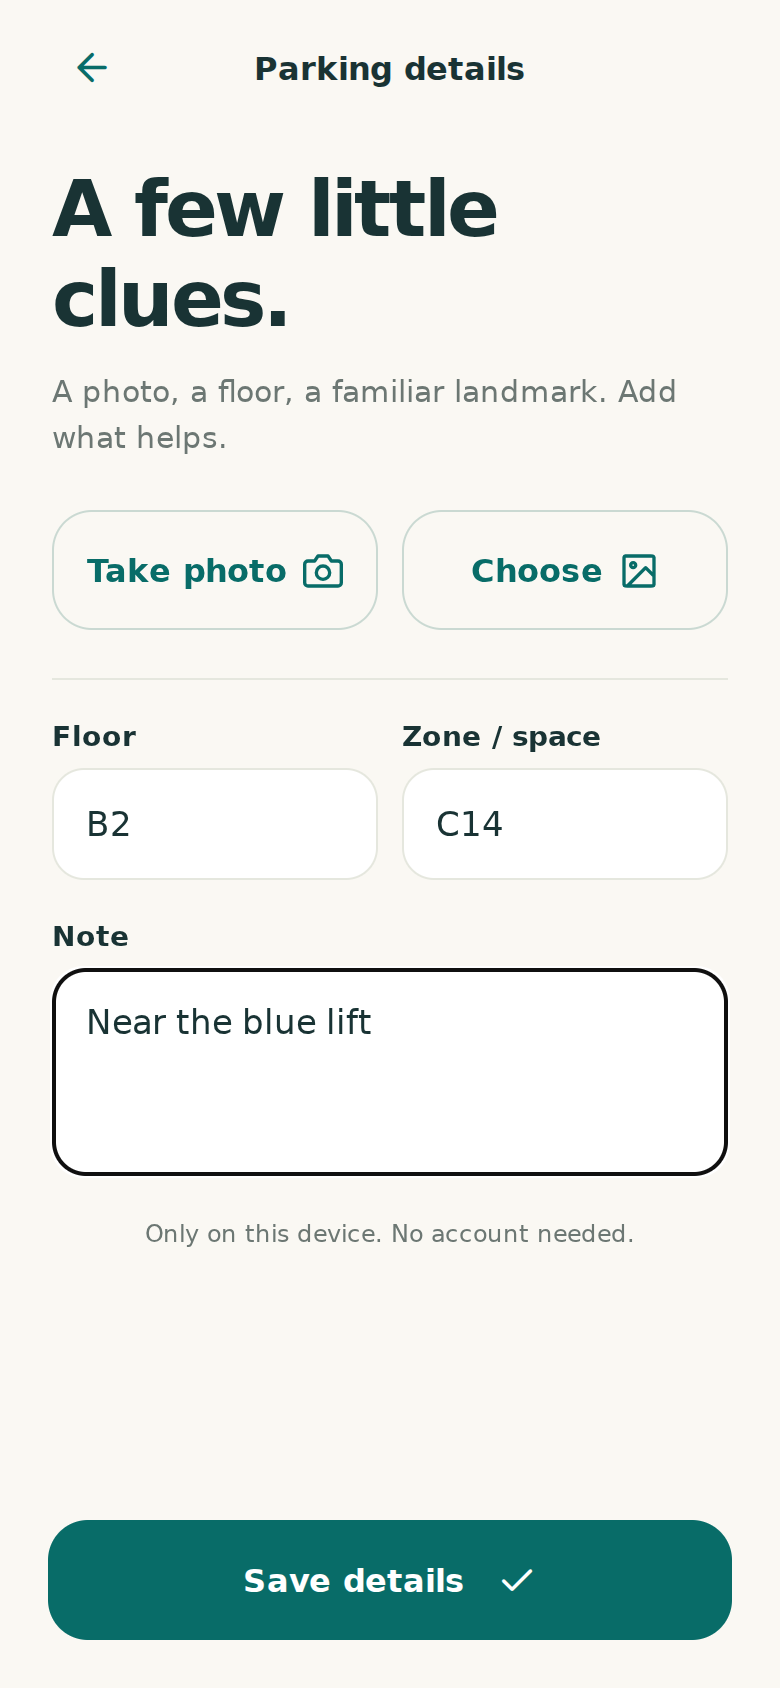
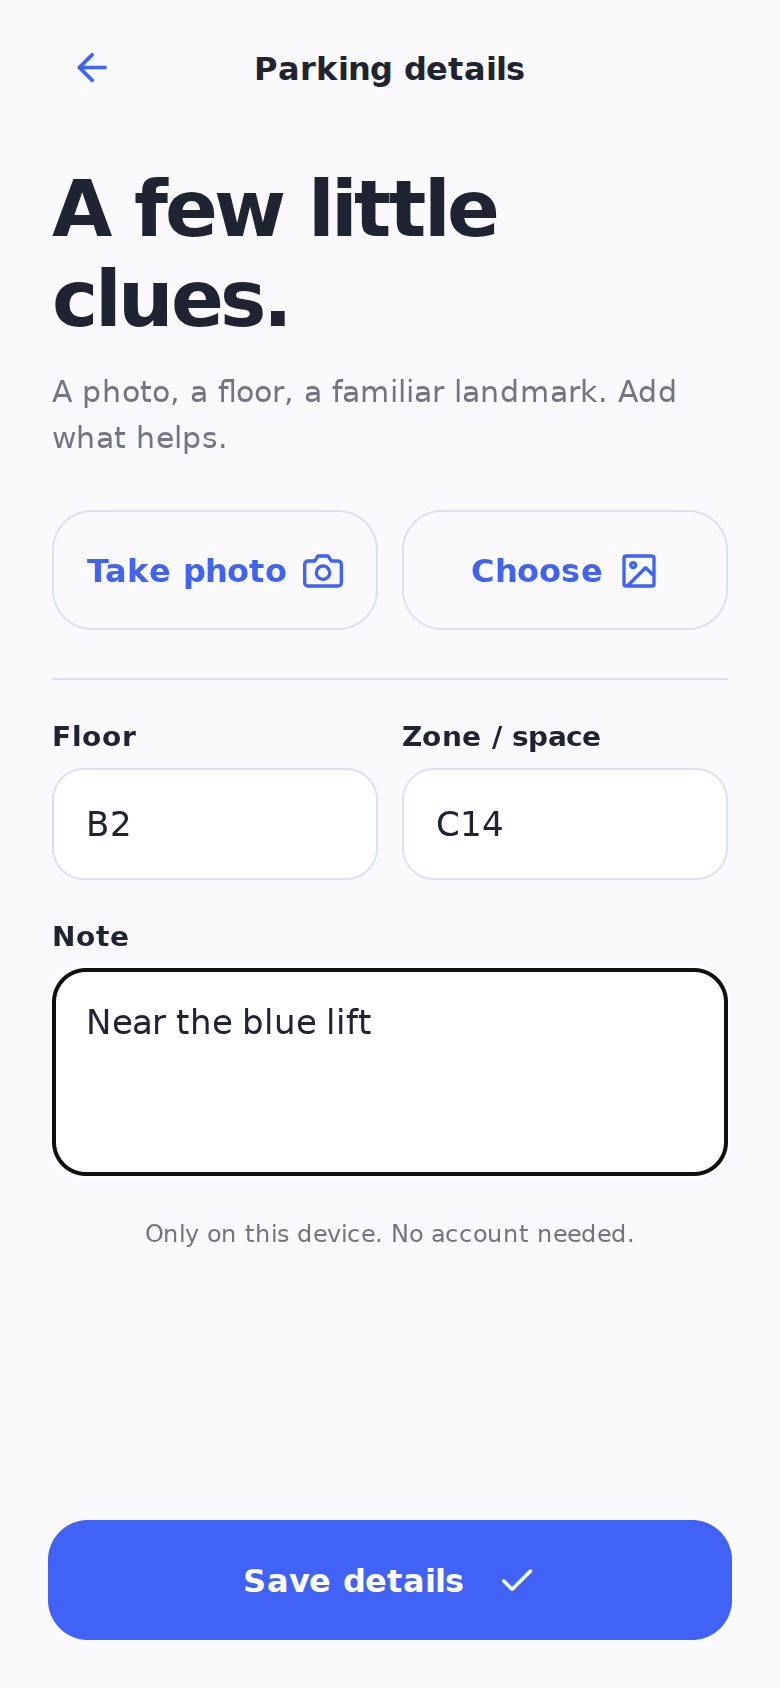
Apply cobalt blue theme and build standalone Android test APK

diff --git a/src/ui.tsx b/src/ui.tsx
@@ -4,9 +4,9 @@ import { ActivityIndicator, Image, KeyboardAvoidingView, Platform, Pressable, Sc
 import { SafeAreaView } from 'react-native-safe-area-context';
 import { router } from 'expo-router';
 
-export const colors = { background: '#FAF8F3', ink: '#193334', teal: '#086C68', muted: '#6C7773', line: '#E5E7DE', sage: '#E8EEE3', white: '#FFFFFF' };
+export const colors = { background: '#FAFAFC', ink: '#202331', primary: '#4162F6', muted: '#737582', line: '#DDE1EF', surface: '#EEF0FF', white: '#FFFFFF' };
 export type IconName = ComponentProps<typeof Feather>['name'];
-export function Icon({ name, size = 22, color = colors.teal }: { name: IconName; size?: number; color?: string }) {
+export function Icon({ name, size = 22, color = colors.primary }: { name: IconName; size?: number; color?: string }) {
   return <Feather name={name} size={size} color={color} />;
 }
 export function Screen({ children, title, back = false, footer }: { children: ReactNode; title?: string; back?: boolean; footer?: ReactNode }) {
@@ -14,7 +14,7 @@ export function Screen({ children, title, back = false, footer }: { children: Re
     <KeyboardAvoidingView style={s.shell} behavior={Platform.OS === 'ios' ? 'padding' : undefined}>
       <View style={s.header}>
         {back ? <Pressable accessibilityRole="button" accessibilityLabel="Go back" onPress={() => router.canGoBack() ? router.back() : router.replace('/')} style={s.iconButton}><Icon name="arrow-left" /></Pressable>
-          : <View style={s.brand}><View style={s.brandMark}><Icon name="map-pin" color={colors.white} size={19} /></View><Text style={s.wordmark}>parkd<Text style={{ color: colors.teal }}>.</Text></Text></View>}
+          : <View style={s.brand}><View style={s.brandMark}><Icon name="map-pin" color={colors.white} size={19} /></View><Text style={s.wordmark}>parkd<Text style={{ color: colors.primary }}>.</Text></Text></View>}
         {title ? <Text style={s.headerTitle}>{title}</Text> : <Pressable accessibilityRole="button" accessibilityLabel="About parkd" style={s.iconButton} onPress={() => router.push('/about')}><Icon name="more-horizontal" /></Pressable>}
         {back && <View style={{ width: 44 }} />}
       </View>
@@ -26,7 +26,7 @@ export function Screen({ children, title, back = false, footer }: { children: Re
 export function Button({ children, onPress, icon, secondary = false, busy = false, disabled = false }: { children: string; onPress: () => void; icon?: IconName; secondary?: boolean; busy?: boolean; disabled?: boolean }) {
   return <Pressable accessibilityRole="button" accessibilityLabel={children} accessibilityState={{ disabled: disabled || busy, busy }} disabled={disabled || busy} onPress={onPress}
     style={({ pressed }) => [s.button, secondary && s.secondary, (busy || disabled) && { opacity: .65 }, pressed && { opacity: .8 }]}>
-    {busy ? <ActivityIndicator color={secondary ? colors.teal : colors.white} /> : <><Text style={[s.buttonText, secondary && { color: colors.teal }]}>{children}</Text>{icon && <Icon name={icon} color={secondary ? colors.teal : colors.white} size={20} />}</>}
+    {busy ? <ActivityIndicator color={secondary ? colors.primary : colors.white} /> : <><Text style={[s.buttonText, secondary && { color: colors.primary }]}>{children}</Text>{icon && <Icon name={icon} color={secondary ? colors.primary : colors.white} size={20} />}</>}
   </Pressable>;
 }
 export function SmallLink({ children, onPress }: { children: string; onPress: () => void }) {
@@ -47,26 +47,26 @@ export function Photo({ uri, onPress }: { uri: string; onPress?: () => void }) {
 export const s = StyleSheet.create({
   safe: { flex: 1, minHeight: 0, backgroundColor: colors.background }, shell: { flex: 1, minHeight: 0, width: '100%', maxWidth: 520, alignSelf: 'center' },
   header: { paddingHorizontal: 24, paddingTop: 12, paddingBottom: 18, flexDirection: 'row', alignItems: 'center', justifyContent: 'space-between' },
-  brand: { flexDirection: 'row', alignItems: 'center', gap: 9 }, brandMark: { backgroundColor: colors.teal, width: 33, height: 33, borderRadius: 12, alignItems: 'center', justifyContent: 'center' },
+  brand: { flexDirection: 'row', alignItems: 'center', gap: 9 }, brandMark: { backgroundColor: colors.primary, width: 33, height: 33, borderRadius: 12, alignItems: 'center', justifyContent: 'center' },
   wordmark: { fontSize: 28, letterSpacing: -1.5, fontWeight: '800', color: colors.ink }, headerTitle: { color: colors.ink, fontSize: 16, fontWeight: '600' },
   iconButton: { minWidth: 44, minHeight: 44, alignItems: 'center', justifyContent: 'center', borderRadius: 22 },
   content: { paddingHorizontal: 26, paddingTop: 8, paddingBottom: 24, flexGrow: 1 }, footer: { padding: 24, paddingTop: 14, gap: 10, backgroundColor: colors.background },
-  eyebrow: { fontSize: 11, fontWeight: '700', letterSpacing: 2.1, color: colors.teal, marginBottom: 14 },
+  eyebrow: { fontSize: 11, fontWeight: '700', letterSpacing: 2.1, color: colors.primary, marginBottom: 14 },
   title: { fontSize: 39, lineHeight: 45, letterSpacing: -1.5, fontWeight: '700', color: colors.ink, marginBottom: 13 },
   body: { fontSize: 15, lineHeight: 23, color: colors.muted },
-  button: { minHeight: 60, paddingVertical: 16, paddingHorizontal: 22, backgroundColor: colors.teal, borderRadius: 20, flexDirection: 'row', alignItems: 'center', justifyContent: 'center', gap: 16 },
-  secondary: { backgroundColor: 'transparent', borderWidth: 1, borderColor: '#CAD9D2', paddingHorizontal: 12, gap: 8 }, buttonText: { fontSize: 16, fontWeight: '600', color: 'white', flexShrink: 1, textAlign: 'center' },
-  smallLink: { minHeight: 44, justifyContent: 'center', alignItems: 'center', paddingHorizontal: 10 }, linkText: { fontSize: 14, fontWeight: '600', color: colors.teal },
-  notice: { flexDirection: 'row', gap: 10, backgroundColor: colors.sage, padding: 16, borderRadius: 16, marginVertical: 12 },
-  art: { minHeight: 275, backgroundColor: '#EAF0E7', borderRadius: 28, marginVertical: 26, alignItems: 'center', justifyContent: 'center', overflow: 'hidden' },
-  artCircle: { width: 215, height: 215, borderRadius: 110, backgroundColor: '#DFE8DD', alignItems: 'center', justifyContent: 'center' },
-  innerCircle: { width: 158, height: 158, borderRadius: 85, borderWidth: 1, borderColor: '#C6D6C6', alignItems: 'center', justifyContent: 'center' },
-  pin: { width: 92, height: 106, backgroundColor: colors.teal, borderRadius: 35, alignItems: 'center', justifyContent: 'center', transform: [{ rotate: '-8deg' }] },
-  artLabel: { position: 'absolute', bottom: 22, flexDirection: 'row', alignItems: 'center', gap: 7, paddingHorizontal: 12, paddingVertical: 9, borderRadius: 12, backgroundColor: '#F9FBF5' },
-  dot: { width: 6, height: 6, borderRadius: 3, backgroundColor: colors.teal }, artLabelText: { color: colors.teal, fontSize: 11, fontWeight: '500' },
+  button: { minHeight: 60, paddingVertical: 16, paddingHorizontal: 22, backgroundColor: colors.primary, borderRadius: 20, flexDirection: 'row', alignItems: 'center', justifyContent: 'center', gap: 16 },
+  secondary: { backgroundColor: 'transparent', borderWidth: 1, borderColor: '#DDE1EF', paddingHorizontal: 12, gap: 8 }, buttonText: { fontSize: 16, fontWeight: '600', color: 'white', flexShrink: 1, textAlign: 'center' },
+  smallLink: { minHeight: 44, justifyContent: 'center', alignItems: 'center', paddingHorizontal: 10 }, linkText: { fontSize: 14, fontWeight: '600', color: colors.primary },
+  notice: { flexDirection: 'row', gap: 10, backgroundColor: colors.surface, padding: 16, borderRadius: 16, marginVertical: 12 },
+  art: { minHeight: 275, backgroundColor: '#EEF0FF', borderRadius: 28, marginVertical: 26, alignItems: 'center', justifyContent: 'center', overflow: 'hidden' },
+  artCircle: { width: 215, height: 215, borderRadius: 110, backgroundColor: '#E1E6FF', alignItems: 'center', justifyContent: 'center' },
+  innerCircle: { width: 158, height: 158, borderRadius: 85, borderWidth: 1, borderColor: '#CDD5FF', alignItems: 'center', justifyContent: 'center' },
+  pin: { width: 92, height: 106, backgroundColor: colors.primary, borderRadius: 35, alignItems: 'center', justifyContent: 'center', transform: [{ rotate: '-8deg' }] },
+  artLabel: { position: 'absolute', bottom: 22, flexDirection: 'row', alignItems: 'center', gap: 7, paddingHorizontal: 12, paddingVertical: 9, borderRadius: 12, backgroundColor: '#FAFAFC' },
+  dot: { width: 6, height: 6, borderRadius: 3, backgroundColor: colors.primary }, artLabelText: { color: colors.primary, fontSize: 11, fontWeight: '500' },
   photoWrap: { marginTop: 22, marginBottom: 18, borderRadius: 24, overflow: 'hidden' }, photo: { width: '100%', height: 270 },
-  photoBadge: { position: 'absolute', bottom: 14, left: 14, padding: 10, borderRadius: 10, backgroundColor: '#193334BB', flexDirection: 'row', gap: 8, alignItems: 'center' },
-  row: { flexDirection: 'row', gap: 12 }, card: { flex: 1, backgroundColor: '#F0F0E9', borderRadius: 19, padding: 18, gap: 8 },
+  photoBadge: { position: 'absolute', bottom: 14, left: 14, padding: 10, borderRadius: 10, backgroundColor: '#202331BB', flexDirection: 'row', gap: 8, alignItems: 'center' },
+  row: { flexDirection: 'row', gap: 12 }, card: { flex: 1, backgroundColor: '#EEF0FF', borderRadius: 19, padding: 18, gap: 8 },
   label: { color: colors.muted, fontSize: 12 }, value: { color: colors.ink, fontSize: 25, fontWeight: '600' },
   divider: { height: 1, backgroundColor: colors.line, marginVertical: 20 },
   input: { minHeight: 56, borderWidth: 1, borderColor: colors.line, borderRadius: 16, backgroundColor: 'white', padding: 16, fontSize: 17, color: colors.ink, marginTop: 8, marginBottom: 20 },

diff --git a/src/app/index.tsx b/src/app/index.tsx
@@ -27,7 +27,7 @@ export default function Home() {
     } catch (e) { setError(e instanceof Error ? e.message : 'Could not get your location. You can save parking details instead.'); }
     finally { if (timer) clearTimeout(timer); saving.current = false; setBusy(false); }
   }
-  if (loading) return <Screen><ActivityIndicator color={colors.teal} accessibilityLabel="Loading your spot" /></Screen>;
+  if (loading) return <Screen><ActivityIndicator color={colors.primary} accessibilityLabel="Loading your spot" /></Screen>;
   if (loadError) return <Screen><Text style={s.title}>Let’s recover your spot.</Text><Notice>{loadError}</Notice><Button onPress={() => void reload()}>Try again</Button></Screen>;
   return <Screen footer={spot ? <><Button icon="arrow-up-right" onPress={() => router.push('/find')}>Find my car</Button><SmallLink onPress={() => router.push('/details')}>Edit parking details</SmallLink></> : <><Button busy={busy} icon="arrow-right" onPress={() => void saveLocation()}>{busy ? 'Saving your spot…' : 'Save my spot'}</Button><SmallLink onPress={() => { if (!busy) router.push('/details'); }}>Save without GPS</SmallLink></>}>
     <Text style={s.eyebrow}>{spot ? 'PARKED & REMEMBERED' : 'A LITTLE LESS TO REMEMBER'}</Text>
@@ -40,7 +40,7 @@ export default function Home() {
       {spot.accuracy !== undefined && spot.accuracy > 50 && <Notice>GPS is approximate here. Add a photo, floor, or zone to help you find the exact space.</Notice>}
       {!spot.photo && !spot.floor && !spot.zone && <SmallLink onPress={() => router.push('/details')}>+ Add a photo, floor, or zone</SmallLink>}
       <View style={{ alignItems: 'center', flexDirection: 'row', justifyContent: 'center', gap: 7, marginTop: 22 }}><Icon name="clock" size={14} color={colors.muted} /><Text style={s.mutedCenter}>Saved {new Date(spot.savedAt).toLocaleDateString(undefined, { month: 'short', day: 'numeric' })} at {new Date(spot.savedAt).toLocaleTimeString(undefined, { hour: 'numeric', minute: '2-digit' })}</Text></View>
-    </> : <View style={{ flexDirection: 'row', alignItems: 'center', gap: 12, paddingHorizontal: 6 }}><View style={[s.iconButton, { backgroundColor: colors.sage }]}><Icon name="camera" size={21} /></View><View style={{ flex: 1 }}><Text style={[s.fieldLabel, { marginBottom: 4 }]}>In a garage?</Text><Text style={s.body}>Add a photo or floor after saving.</Text></View></View>}
+    </> : <View style={{ flexDirection: 'row', alignItems: 'center', gap: 12, paddingHorizontal: 6 }}><View style={[s.iconButton, { backgroundColor: colors.surface }]}><Icon name="camera" size={21} /></View><View style={{ flex: 1 }}><Text style={[s.fieldLabel, { marginBottom: 4 }]}>In a garage?</Text><Text style={s.body}>Add a photo or floor after saving.</Text></View></View>}
     {!!error && <Notice>{error}</Notice>}
   </Screen>;
 }

diff --git a/src/app/about.tsx b/src/app/about.tsx
@@ -4,6 +4,6 @@ export default function About() {
   return <Screen back title="About parkd"><Text style={s.eyebrow}>LESS SEARCHING. MORE LIVING.</Text><Text style={s.title}>Your spot.\nYour business.</Text><Text style={s.body}>A small, quiet place to remember where you parked.</Text>
     <View style={s.divider} />
     {[['smartphone', 'Saved on your device', 'Your spot, photo, and notes are stored locally. No account, ads, or analytics.'], ['map-pin', 'Location only when you ask', 'parkd requests your location when you save a spot. It does not track you in the background.'], ['navigation', 'Directions in your Maps app', 'Opening Maps shares your saved coordinates with Apple Maps or Google Maps. Maps may require internet.'], ['camera', 'A photo goes a long way', 'GPS can be weak indoors. A photo, floor, and zone help you find the exact space.']] .map(([icon, title, body]) => <View key={title} style={{ gap: 9, marginBottom: 27 }}><Icon name={icon as 'smartphone' | 'map-pin' | 'navigation' | 'camera'} /><Text style={s.fieldLabel}>{title}</Text><Text style={s.body}>{body}</Text></View>)}
-    <Text style={s.mutedCenter}>parkd · version 0.1.0\nClearing app data or uninstalling removes your saved spot.</Text>
+    <Text style={s.mutedCenter}>parkd · version 0.1.1\nClearing app data or uninstalling removes your saved spot.</Text>
   </Screen>;
 }

diff --git a/README.md b/README.md
@@ -40,7 +40,11 @@ npm run export:web
 npm run export:mobile
 ```
 
-## Android test build
+## Android test APK
+
+The **Android test APK** GitHub Actions workflow builds a standalone arm64 APK and attaches it to a GitHub prerelease. Download it from the repository’s Releases page. These test builds use Expo’s standard Android test key; production signing is configured separately.
+
+## EAS builds
 
 The `preview` EAS profile produces an installable Android APK. Connect your own Expo account and EAS project first:
 
@@ -50,7 +54,7 @@ npx eas-cli@latest build:configure
 npx eas-cli@latest build --platform android --profile preview
 ```
 
-An iOS device build needs the appropriate Apple signing setup. No store submissions or cloud builds have been performed as part of this source project.
+An iOS device build needs the appropriate Apple signing setup. No store submission is performed by the test-APK workflow.
 
 ## Scope and privacy
 
@@ -61,7 +65,7 @@ Parking details and a compressed photo are stored in AsyncStorage on the device.
 ## Project structure
 
 - `src/app/`: home, editor, find, photo, and about routes.
-- `src/ui.tsx`: shared cream-and-teal visual components.
+- `src/ui.tsx`: shared white-and-cobalt visual components.
 - `src/store.tsx`: loading and persistent storage.
 - `src/parking.ts`: parking data validation and directions URLs.
 - `tests/`: data and navigation unit tests.

diff --git a/docs/DESIGN.md b/docs/DESIGN.md
@@ -1,4 +1,4 @@
-# parkd — version 0.1
+# parkd — version 0.1.1
 
 ## Principle
 
@@ -14,10 +14,10 @@ Optional details: floor, zone/space, note, and one photo. Edit them after saving
 
 ## Visual language
 
-- Warm ivory `#FAF8F3` background.
-- Deep teal `#086C68` actions.
-- Dark green `#193334` text.
-- Sage surfaces, rounded 16–28 pt cards, generous whitespace.
+- Soft white `#FAFAFC` background.
+- Cobalt blue `#4162F6` actions.
+- Charcoal `#202331` text.
+- Pale blue surfaces, rounded 16–28 pt cards, generous whitespace.
 - 44 pt minimum interactive controls and 60 pt primary buttons.
 - System typography, large headlines, restrained outline icons.
 - No bottom tab bar: this app has one main task.
